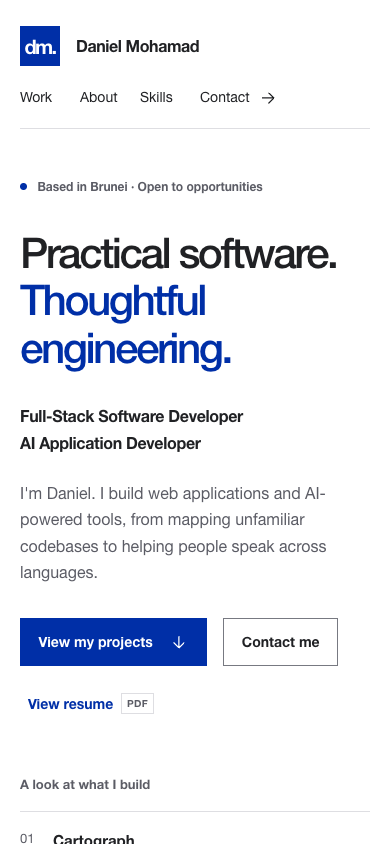
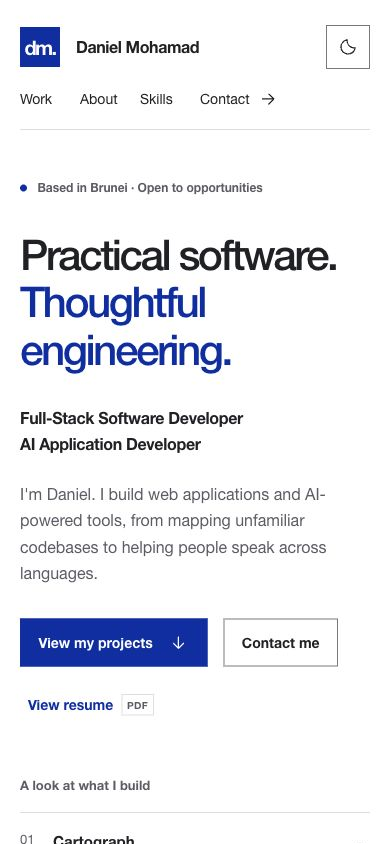
Add persistent dark mode and refresh portfolio previews

diff --git a/styles.css b/styles.css
@@ -21,6 +21,30 @@
   --lead: 1.25rem;
   --fast: 180ms;
 }
+:root[data-theme="dark"] {
+  color-scheme: dark;
+  --background: #111318;
+  --surface: #1b1e24;
+  --text: #f3f4f6;
+  --muted: #b4b9c5;
+  --accent: #a6bcff;
+  --accent-hover: #c6d4ff;
+  --border: #353b47;
+  --control-border: #788399;
+}
+@media (prefers-color-scheme: dark) {
+  :root:not([data-theme="light"]) {
+    color-scheme: dark;
+    --background: #111318;
+    --surface: #1b1e24;
+    --text: #f3f4f6;
+    --muted: #b4b9c5;
+    --accent: #a6bcff;
+    --accent-hover: #c6d4ff;
+    --border: #353b47;
+    --control-border: #788399;
+  }
+}
 * {
   box-sizing: border-box;
 }
@@ -45,7 +69,8 @@ a:hover {
   color: var(--accent-hover);
 }
 a:focus-visible,
-summary:focus-visible {
+summary:focus-visible,
+button:focus-visible {
   outline: 3px solid var(--accent);
   outline-offset: 5px;
 }
@@ -110,11 +135,41 @@ img {
 }
 .site-header {
   min-height: 100px;
-  display: flex;
+  display: grid;
+  grid-template-columns: auto 1fr auto;
   align-items: center;
   justify-content: space-between;
   gap: var(--space-4);
   border-bottom: 1px solid var(--border);
+}
+.site-header nav {
+  justify-self: end;
+}
+.theme-toggle {
+  display: inline-flex;
+  align-items: center;
+  justify-content: center;
+  gap: var(--space-1);
+  min-height: 44px;
+  min-width: 44px;
+  padding: var(--space-1) 0.75rem;
+  border: 1px solid var(--control-border);
+  background: var(--background);
+  color: var(--text);
+  font: inherit;
+  font-size: var(--small);
+  cursor: pointer;
+  white-space: nowrap;
+}
+.theme-toggle[hidden] {
+  display: none;
+}
+.theme-toggle:hover,
+.theme-toggle:active,
+.theme-toggle[aria-pressed="true"] {
+  background: var(--surface);
+  border-color: var(--accent);
+  color: var(--accent);
 }
 .site-name {
   display: inline-flex;
@@ -667,6 +722,20 @@ summary > span {
   }
 }
 @media (max-width: 54rem) {
+  .site-header {
+    grid-template-columns: 1fr auto;
+    gap: var(--space-1) var(--space-2);
+    padding-block: var(--space-3) var(--space-1);
+  }
+  .site-header nav {
+    grid-column: 1 / -1;
+    grid-row: 2;
+    justify-self: start;
+  }
+  .theme-toggle {
+    grid-column: 2;
+    grid-row: 1;
+  }
   .hero {
     grid-template-columns: 1fr;
     padding-block: var(--space-5);
@@ -737,10 +806,13 @@ summary > span {
     width: calc(100% - 2.5rem);
   }
   .site-header {
-    flex-direction: column;
-    align-items: start;
-    gap: var(--space-1);
-    padding-block: var(--space-3) var(--space-1);
+    gap: var(--space-1) var(--space-2);
+  }
+  .theme-toggle span {
+    display: none;
+  }
+  .theme-toggle {
+    padding: var(--space-1);
   }
   .nav-links {
     gap: var(--space-2);
@@ -850,6 +922,19 @@ summary > span {
   }
 }
 @media print {
+  :root,
+  :root:not([data-theme="light"]),
+  :root[data-theme="dark"] {
+    color-scheme: light;
+    --background: #ffffff;
+    --surface: #f7f7f8;
+    --text: #202124;
+    --muted: #5b5c65;
+    --accent: #002fa7;
+    --accent-hover: #00247e;
+    --border: #dedee2;
+    --control-border: #777981;
+  }
   .container {
     width: 100%;
   }
@@ -860,6 +945,7 @@ summary > span {
   }
   .work-index,
   .skip-link,
+  .theme-toggle,
   .site-header nav,
   .site-footer a {
     display: none;

diff --git a/index.html b/index.html
@@ -8,11 +8,10 @@
       content="Daniel Mohamad, a Brunei-based full-stack software and AI application developer. Explore Cartograph, RidzTalk, and the engineering behind practical applications."
     />
     <meta name="theme-color" content="#ffffff" />
+    <meta name="color-scheme" content="light dark" />
+    <script src="theme.js?v=1"></script>
     <title>Daniel Mohamad | Full-Stack &amp; AI Application Developer</title>
-    <link
-      rel="canonical"
-      href="https://dannyridz.github.io/daniel.mohamad/"
-    />
+    <link rel="canonical" href="https://dannyridz.github.io/daniel.mohamad/" />
     <meta property="og:type" content="website" />
     <meta property="og:locale" content="en_GB" />
     <meta
@@ -55,7 +54,7 @@
       content="Daniel Mohamad, a full-stack software and AI application developer based in Brunei."
     />
     <link rel="icon" href="assets/images/favicon.svg" type="image/svg+xml" />
-    <link rel="stylesheet" href="styles.css?v=3" />
+    <link rel="stylesheet" href="styles.css?v=4" />
   </head>
   <body>
     <a class="skip-link" href="#main-content">Skip to content</a>
@@ -77,6 +76,18 @@
           </li>
         </ul>
       </nav>
+      <button
+        class="theme-toggle"
+        type="button"
+        aria-label="Dark mode"
+        aria-pressed="false"
+        hidden
+      >
+        <svg class="icon" aria-hidden="true" viewBox="0 0 24 24">
+          <path d="M20.5 13A8.5 8.5 0 0 1 11 3.5 8.5 8.5 0 1 0 20.5 13Z" />
+        </svg>
+        <span>Dark mode</span>
+      </button>
     </header>
     <main id="main-content" tabindex="-1">
       <section class="hero container" id="home" aria-labelledby="hero-title">
@@ -105,7 +116,9 @@
                 <path d="M12 5v14m-6-6 6 6 6-6" /></svg
             ></a>
             <a class="button button-secondary" href="#contact">Contact me</a>
-            <a class="text-link" href="assets/documents/daniel-mohamad-cv.pdf?v=3"
+            <a
+              class="text-link"
+              href="assets/documents/daniel-mohamad-cv.pdf?v=3"
               >View resume <span class="file-type">PDF</span></a
             >
           </div>
@@ -565,7 +578,10 @@
       </section>
     </main>
     <footer class="site-footer container">
-      <p>&copy; 2026 Daniel Mohamad <span>Built with HTML &amp; CSS.</span></p>
+      <p>
+        &copy; 2026 Daniel Mohamad
+        <span>Built with HTML, CSS &amp; JavaScript.</span>
+      </p>
       <a href="#home"
         >Back to top
         <svg class="icon" aria-hidden="true" viewBox="0 0 24 24">

diff --git a/theme.js b/theme.js
@@ -1,0 +1,45 @@
+// Run before the stylesheet so a saved preference is applied before first paint.
+(() => {
+  const root = document.documentElement;
+  const systemTheme = window.matchMedia("(prefers-color-scheme: dark)");
+  const storageKey = "portfolio-theme";
+  let preference = null;
+  let button;
+
+  try {
+    const saved = localStorage.getItem(storageKey);
+    if (saved === "light" || saved === "dark") preference = saved;
+  } catch {
+    // Storage can be unavailable in private or restricted browser contexts.
+  }
+
+  function applyTheme() {
+    const theme = preference || (systemTheme.matches ? "dark" : "light");
+    root.dataset.theme = theme;
+    document
+      .querySelector('meta[name="theme-color"]')
+      ?.setAttribute("content", theme === "dark" ? "#111318" : "#ffffff");
+    button?.setAttribute("aria-pressed", String(theme === "dark"));
+  }
+
+  applyTheme();
+  systemTheme.addEventListener("change", () => {
+    if (preference === null) applyTheme();
+  });
+
+  document.addEventListener("DOMContentLoaded", () => {
+    button = document.querySelector(".theme-toggle");
+    if (!button) return;
+    button.hidden = false;
+    applyTheme();
+    button.addEventListener("click", () => {
+      preference = root.dataset.theme === "dark" ? "light" : "dark";
+      try {
+        localStorage.setItem(storageKey, preference);
+      } catch {
+        // The selected theme still works for this visit if persistence fails.
+      }
+      applyTheme();
+    });
+  });
+})();

diff --git a/scripts/check_site.py b/scripts/check_site.py
@@ -15,6 +15,7 @@ class PortfolioParser(HTMLParser):
         self.ids = []
         self.links = []
         self.images = []
+        self.scripts = []
         self.metadata = {}
         self.canonical = None
         self.h1_count = 0
@@ -27,6 +28,8 @@ class PortfolioParser(HTMLParser):
             self.links.append(attrs.get("href", ""))
         if tag == "img":
             self.images.append(attrs)
+        if tag == "script" and "src" in attrs:
+            self.scripts.append(attrs["src"])
         if tag == "meta":
             self.metadata[attrs.get("name", attrs.get("property"))] = attrs.get("content", "")
         if tag == "link" and attrs.get("rel") == "canonical":
@@ -46,7 +49,7 @@ def main():
     if page.canonical != PUBLIC:
         errors.append("Canonical URL changed")
 
-    for link in page.links:
+    for link in page.links + page.scripts:
         url = urlsplit(link)
         if not link:
             errors.append("Empty link")

diff --git a/README.md b/README.md
@@ -11,6 +11,15 @@ The live portfolio is published through GitHub Pages from the `main` branch.
 ![Desktop portfolio introduction and selected project index](assets/images/portfolio-preview.png)
 
 <details>
+<summary>Dark mode preview</summary>
+
+![Dark portfolio with the theme toggle enabled](assets/images/portfolio-dark.png)
+
+<img src="assets/images/portfolio-mobile-dark.png" width="390" height="844" alt="Dark mobile portfolio with the theme toggle in the header">
+
+</details>
+
+<details>
 <summary>Mobile preview</summary>
 
 <img src="assets/images/portfolio-mobile.png" width="390" height="844" alt="Mobile portfolio with wrapping navigation, professional introduction, project and contact actions, and a selected project index">
@@ -25,12 +34,13 @@ The live portfolio is published through GitHub Pages from the `main` branch.
 - Crop Health Assistant overview with team contribution, deployment and screening limitations.
 - Categorized skills grounded in project source and documentation.
 - Responsive layouts, always visible navigation, semantic landmarks, a keyboard skip link, visible focus, native disclosures and reduced motion support.
-- Optimized project images, explicit dimensions, lazy loading, no remote fonts and no JavaScript runtime.
+- Light and dark modes with a keyboard-accessible toggle, device preference detection and a remembered selection.
+- Optimized project images, explicit dimensions, lazy loading, no remote fonts and no framework dependencies.
 - Canonical URL, Open Graph and Twitter metadata, a 1200 × 630 social image and a local SVG favicon.
 
 ## Technology
 
-The portfolio uses **HTML and CSS**. A standard-library Python script checks local links and metadata. No package installation, frontend framework, API keys, build process or backend is needed to serve it. Technologies mentioned in project case studies belong to those separate applications.
+The portfolio uses **HTML, CSS and a small vanilla JavaScript theme script**. The theme is applied before the stylesheet loads to avoid flashing the wrong theme. If JavaScript is unavailable, CSS still follows the device theme and navigation, content and case study disclosures continue to work. A standard-library Python script checks local links and metadata. No package installation, frontend framework, API keys, build process or backend is needed to serve it. Technologies mentioned in project case studies belong to those separate applications.
 
 ## Local development
 
@@ -55,11 +65,13 @@ Then open `http://127.0.0.1:8000/daniel.mohamad/`.
 ```text
 index.html                 Content, navigation and metadata
 styles.css                 Design tokens, shared patterns and responsive styles
+theme.js                   Theme preference, persistence and toggle behavior
 design.md                  Visual direction and maintenance guidance
 .htmlvalidate.json         HTML validation conventions
 assets/images/             Project evidence, favicon and portfolio previews
 assets/documents/          Existing public resume
 scripts/check_site.py      Dependency-free link and metadata checks
+scripts/check_theme.cjs    Theme behavior checks using Node's standard library
 docs/audit.md              Original audit and prioritized plan
 docs/research.md           Claim sources, project selection and limitations
 docs/verification.md       Executed checks and remaining recommendations
@@ -72,6 +84,7 @@ Run the built-in checks:
 
 ```sh
 python3 scripts/check_site.py
+node scripts/check_theme.cjs
 git diff --check
 ```
 
@@ -82,6 +95,8 @@ npx --yes html-validate@9.7.1 index.html
 ```
 
 This optional command downloads a development tool; it adds no runtime dependency to the portfolio. CSS was also parsed and checked with CSS Tree. Browser verification covered desktop and mobile rendering, seven viewport widths, keyboard navigation, native disclosures, reduced motion, local HTTP asset responses and axe accessibility scans. See [executed checks and limitations](docs/verification.md) for exact results. Automated accessibility scans do not replace assistive-technology testing.
+
+The subsequent [dark mode implementation and checks](docs/dark-mode.md) cover remembered theme preferences, keyboard operation, contrast, responsive layouts and the refreshed previews.
 
 ## Deployment
 

diff --git a/docs/dark-mode.md b/docs/dark-mode.md
@@ -1,0 +1,25 @@
+# Light and dark themes
+
+Added on 22 October 2026 at the owner's request, extending the initial light-only portfolio. The owner also authorized publication and asked for current screenshots in the GitHub README.
+
+## Behavior
+
+The header's Dark mode button is a native toggle button with an accessible name, pressed state and visible keyboard focus. It works with pointer input, Enter and Space. On small phones, the visible text is hidden while the accessible label and 44px target remain.
+
+The initial theme follows the device preference. An explicit choice is stored as `portfolio-theme` in localStorage and applied on the next visit. Invalid values are ignored. If reading or writing storage throws, the button still changes the theme for the current visit. System theme changes are followed until a visitor chooses a theme.
+
+`theme.js` runs before the stylesheet, so the root theme attribute is available for the first styled render. Browser theme-color metadata follows the choice. CSS supplies a device-theme fallback when JavaScript is unavailable, and the unused button stays hidden. Print styles always use the light palette. Project screenshots and the resume PDF are not recolored.
+
+## Checks executed
+
+- `node --check theme.js`, `node scripts/check_theme.cjs`, `python3 scripts/check_site.py`, HTML validation and `git diff --check` passed.
+- The Node check exercises automatic selection, a saved override, reload state, OS changes, invalid preferences, blocked storage, pressed state and browser theme color.
+- CSS Tree parsed the stylesheet and checked declaration grammar without errors.
+- Browser checks in Chrome confirmed pointer toggling, Enter and Space operation, and persistence across a real page reload.
+- Both themes had document width equal to viewport width at 320, 390, 768, 1024 and 1440px.
+- A rendered text contrast scan inspected 132 visible text-bearing elements in each theme and reported no failures against normal and large text contrast thresholds. This is a focused contrast check, not a full WCAG conformance evaluation or a new axe scan.
+- The mobile toggle measured 44px by 44px. Final desktop and phone captures were reviewed in both themes.
+
+Updated README images include the current light desktop and mobile views plus new dark desktop and mobile views. Social sharing artwork remains a deliberately authored card, rather than a screenshot, and needs no change for this feature.
+
+No runtime libraries, framework or build step were added. Browser testing used Chrome; other browsers and screen readers were not independently tested for this change.

diff --git a/design.md b/design.md
@@ -4,7 +4,7 @@ Source: authored from the owner's professional redesign brief.
 
 ## Character
 
-Swiss editorial design. White and neutral surfaces, a single blue accent, Helvetica throughout, generous but purposeful spacing, asymmetric columns and fine rules. Project evidence provides the imagery. No stock portraits or invented app screens.
+Swiss editorial design, extended with dark mode at the owner's request. Light mode uses white and neutral surfaces; dark mode uses charcoal surfaces with a lighter blue accent. Both retain Helvetica, purposeful spacing, asymmetric columns and fine rules. Project evidence provides the imagery. No stock portraits or invented app screens.
 
 ## Build mandate
 
@@ -17,6 +17,8 @@ Make Daniel's engineering work the visual center. A large left aligned introduct
 ## Responsive behavior
 
 The header wraps without a menu. Hero, projects and section grids become a single column below the tablet breakpoint. At 320px, actions and long contact text wrap. Preview images retain their aspect ratio. Native disclosures show engineering notes on demand.
+
+The theme toggle stays beside the identity on tablet and mobile, with navigation on the next row. Its text label is visually hidden on small phones, while the accessible name and 44px touch target remain. Device preference supplies the initial theme; a selection overrides it and is remembered when browser storage is available. Print output uses the light palette.
 
 ## Do and avoid
 
